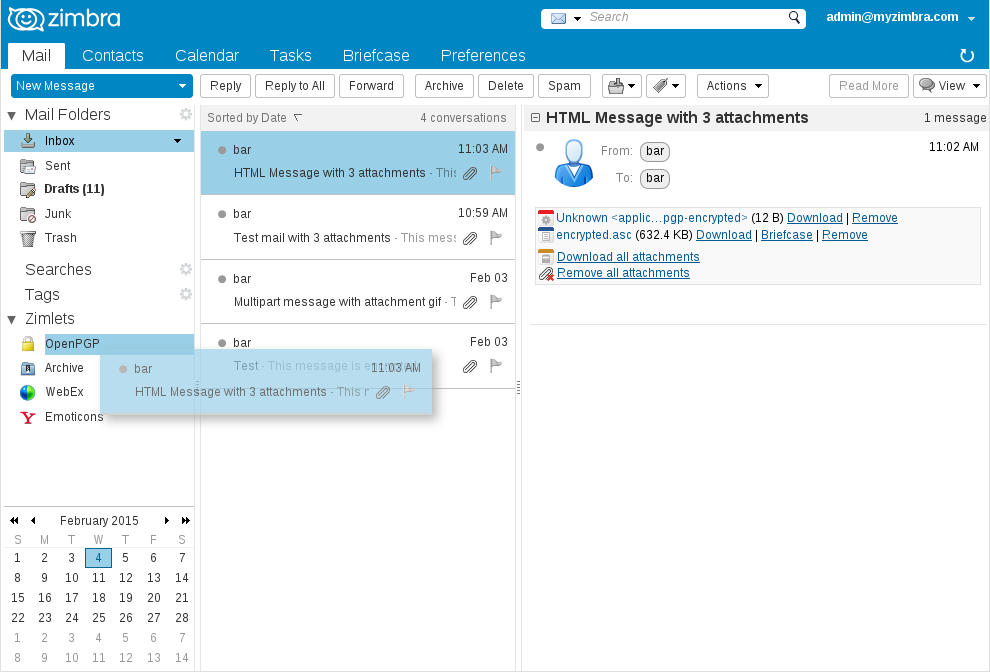
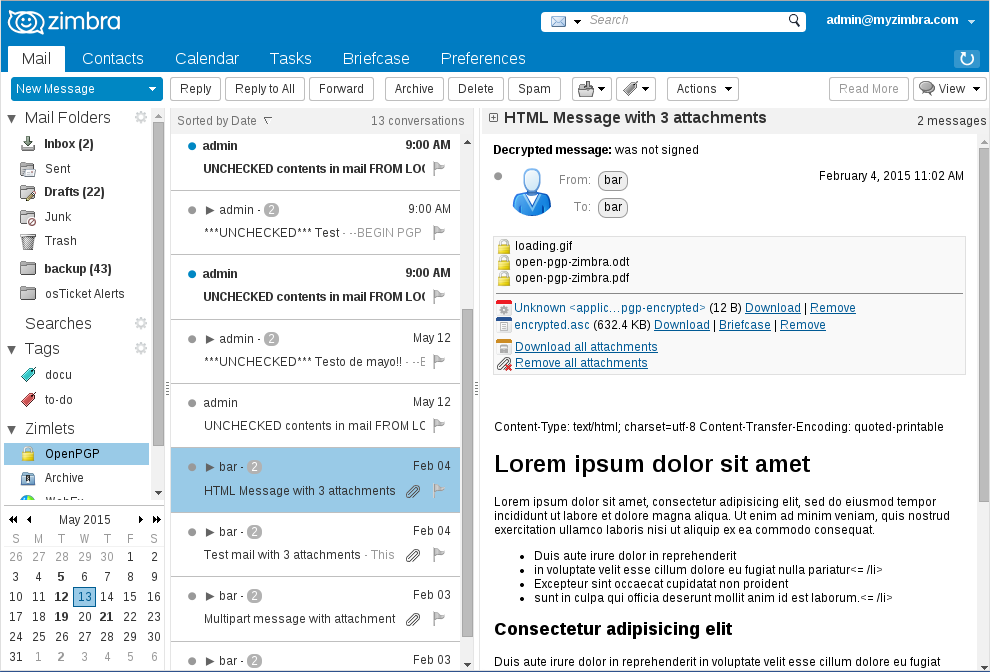
modify help files to show latest state of pgp/mime reading capability

Changed region(s): [[0.0, 0.0, 1.0, 1.0], [0.5455, 0.0, 0.9697, 0.0625], [0.8182, 0.2188, 1.0, 0.75]]

diff --git a/tk_barrydegraaff_zimbra_openpgp/help/index.html b/tk_barrydegraaff_zimbra_openpgp/help/index.html
@@ -168,9 +168,8 @@ If you want to attach encrypted documents to your mail, you must first encrypt t
 
 <br><br></section><section id="thunderbird-enigmail">
 <h1>Reading messages encrypted/signed with Thunderbird/Enigmail</h1>
-OpenPGP/MIME encrypted messages using RFC 3156 implemented in Thunderbird/Enigmail can be decrypted and verified by this Zimlet by dragging the message and drop it onto the Zimlet panel icon. This is beta functionality text/plain, text/html and attachment message parts are supported.<br>
-<br><img src="thunderbird-enigmail-support.png" alt=""><br>
-<br><img src="thunderbird-enigmail-support-result.png" alt=""><br><hr><br>
+OpenPGP/MIME encrypted messages using RFC 3156 implemented in Thunderbird/Enigmail can be decrypted and verified by this Zimlet. This is beta functionality text/plain, text/html and attachment message parts are supported.<br>
+<br><img src="thunderbird-enigmail-support.png" alt=""><br><hr><br>
 
 
 
